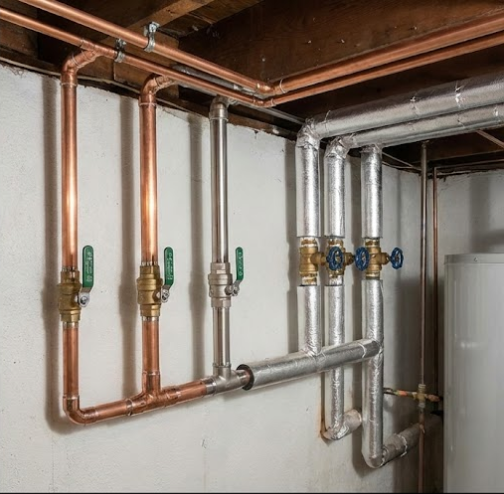
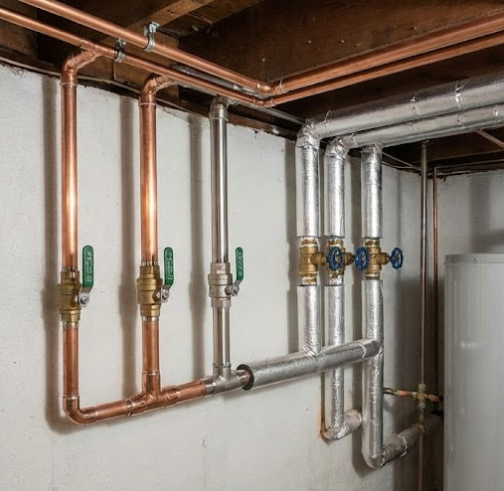
採用情報ページで、社員カードのホバーエフェクトを追加

diff --git a/html/recruitment.html b/html/recruitment.html
@@ -4,7 +4,7 @@
     <meta charset="UTF-8" />
     <meta name="viewport" content="width=device-width, initial-scale=1.0" />
     <title>採用情報 | 早池峰設備工業</title>
-    <link rel="stylesheet" href="../css/header-style.css">
+    <link rel="stylesheet" href="../css/header-style.css" />
     <link rel="stylesheet" href="../css/recruitment-style.css" />
     <link rel="preconnect" href="https://fonts.googleapis.com" />
     <link rel="preconnect" href="https://fonts.gstatic.com" crossorigin />
@@ -18,20 +18,22 @@
       <div class="header-inner">
         <div class="logo-area">
           <a href="./index.html">
-            <img src="../img/Ellipse 11.png" alt="会社ロゴ" class="logo">
-            <div class="company-name">株式会社<br><span  class="company-name2">早池峰設備工業</span></div>
+            <img src="../img/Ellipse 11.png" alt="会社ロゴ" class="logo" />
+            <div class="company-name">
+              株式会社<br /><span class="company-name2">早池峰設備工業</span>
+            </div>
           </a>
         </div>
 
         <div id="menu-btn"><span></span></div>
         <nav id="nav-menu" class="nav">
-            <ul>
-                <li><a href="./about-us.html">会社案内</a></li>
-                <li><a href="./construction.html">施工事例</a></li>
-                <li><a href="./faq.html">よくある質問</a></li>
-                <li class="active">採用情報</li>
-                <li><a href="./contact.html">お問い合わせ</a></li>
-            </ul>
+          <ul>
+            <li><a href="./about-us.html">会社案内</a></li>
+            <li><a href="./construction.html">施工事例</a></li>
+            <li><a href="./faq.html">よくある質問</a></li>
+            <li class="active">採用情報</li>
+            <li><a href="./contact.html">お問い合わせ</a></li>
+          </ul>
         </nav>
       </div>
     </header>
@@ -101,6 +103,7 @@
             <div class="recruitment-card-text">
               <p>2024年入社(1年目)</p>
               <p class="center">K.T</p>
+              <p class="speech-bubble">入社前は未経験で不安でしたが…</p>
             </div>
           </div>
           <div class="recruitment-card">
@@ -108,6 +111,7 @@
             <div class="recruitment-card-text">
               <p>2023年入社(2年目)</p>
               <p class="center">R.S</p>
+              <p class="speech-bubble">少しずつ任される仕事が増えてきました…</p>
             </div>
           </div>
           <div class="recruitment-card">
@@ -115,6 +119,7 @@
             <div class="recruitment-card-text">
               <p>2022年入社(3年目)</p>
               <p class="center">S.Y</p>
+              <p class="speech-bubble">後輩指導を通じて自分も成長中です…</p>
             </div>
           </div>
           <div class="recruitment-card">
@@ -122,6 +127,7 @@
             <div class="recruitment-card-text">
               <p>2020年入社(5年目)</p>
               <p class="center">H.I</p>
+              <p class="speech-bubble">チームリーダーとして活躍しています…</p>
             </div>
           </div>
           <div class="recruitment-card">
@@ -129,6 +135,7 @@
             <div class="recruitment-card-text">
               <p>2017年入社(8年目)</p>
               <p class="center">N.K</p>
+              <p class="speech-bubble">大規模プロジェクトを任されています…</p>
             </div>
           </div>
           <div class="recruitment-card">
@@ -136,6 +143,7 @@
             <div class="recruitment-card-text">
               <p>2015年入社(10年目)</p>
               <p class="center">M.O</p>
+              <p class="speech-bubble">マネージャーとして部署を牽引中です…</p>
             </div>
           </div>
         </div>

diff --git a/css/recruitment-style.css b/css/recruitment-style.css
@@ -320,8 +320,8 @@ table {
 }
 
 .recruitment-card:hover {
-  background-color: #fff;
-  color: #007b3d;
+  transform: scale(1.05);
+  transition: transform 0.2s ease;
 }
 
 .recruitment-card img {
@@ -331,7 +331,7 @@ table {
 
 .recruitment-card-text {
   width: 80%;
-  margin: 0 auto;
+  margin: 12px auto 0 auto;
 }
 
 .recruitment-card-text p {
@@ -528,7 +528,8 @@ table {
   }
 
   .recruitment-card-text {
-    width: 100%;
+    width: 90%;
+    margin: 0 auto;
   }
 }
 
@@ -564,6 +565,11 @@ table {
 
   .recruitment-link a {
     font-size: 24px;
+  }
+
+  .recruitment-card-text {
+    width: 90%;
+    margin: 0 auto;
   }
 
   .modal-content {
